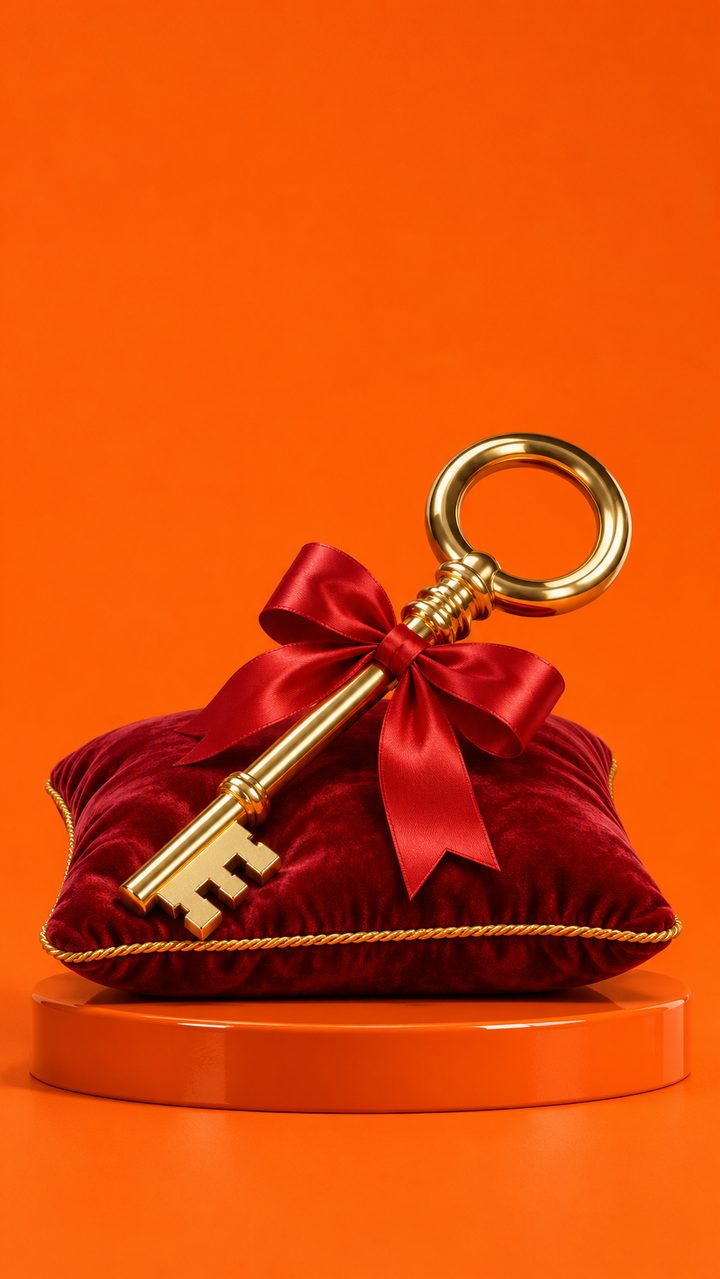
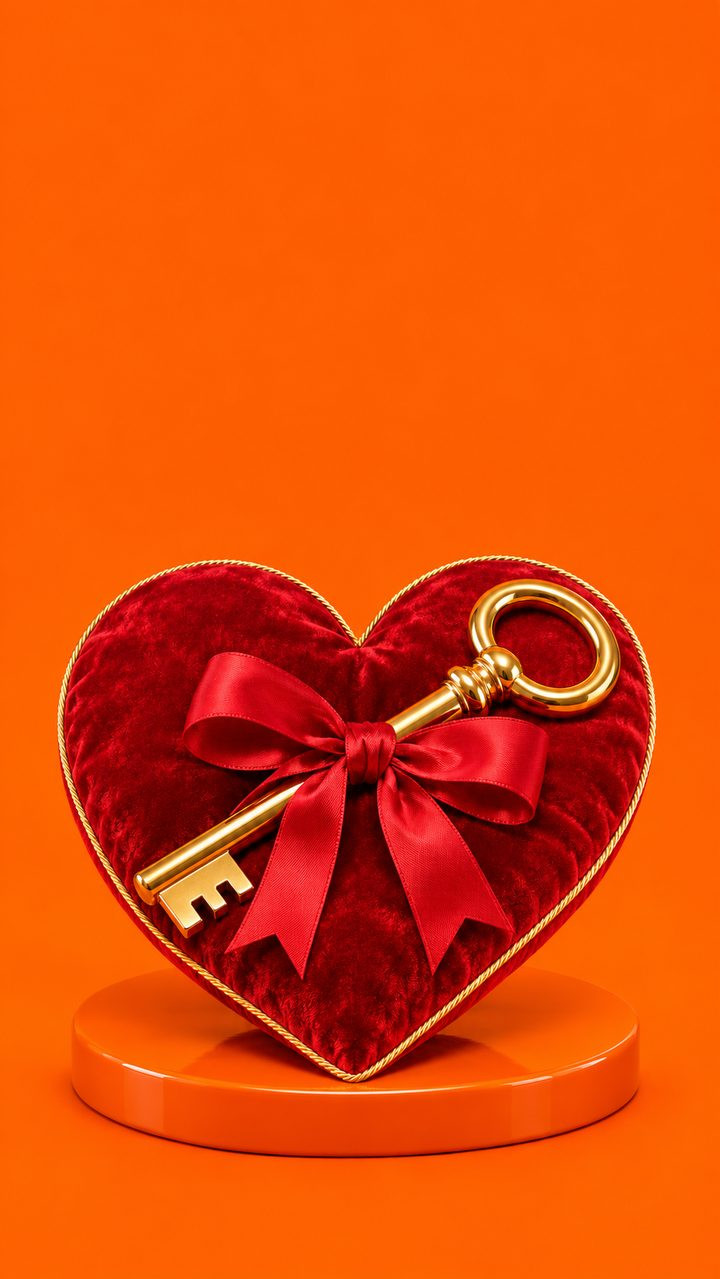
Неоновый город без такси, столик на двоих, мир гигантских вещей, джекпот с золотыми сердцами, ключ на подушке-сердце, семь новых образов

diff --git a/index.html b/index.html
@@ -178,9 +178,9 @@ const CH=[
   ['B1','Барокко','золото, красный бархат, свет как на картинах'],['B2','Рококо','лепнина, банты, цветы, конфетные цвета'],['B3','Ар-деко','чёрный лак, золото, геометрия двадцатых'],['B4','Космические 60-е','белый пластик, круглые окна, оранжевый'],
   ['B5','Диско 70-х','зеркальные шары, светящийся пол, блёстки'],['B6','Двухтысячные','хром, стразы, надувная мебель, раскладушки'],['B7','Старые деньги','мрамор, дерево, теннисный клуб'],['B8','Готический гламур','чёрное кружево, свечи, рубин']]},
  {k:'Мир: шоу',id:'wo',part:0,t:'Где всё происходит?',q:'Яркие миры: праздник, игра и большое шоу. Если ни один не твой, пропусти.',ask:'Что бы ты добавила в этот мир?',max:4,skip:1,cards:[
-  ['W9','Телестудия','колесо удачи, лампочки, в зале голуби вместо зрителей'],['W14','Зал автоматов','везде выпали три сердца, пол в монетах'],['W4','Затопленный театр','бирюзовая вода, лебеди, гора подарков'],['W15','Ресторан с одним столиком','столы стоят даже на потолке'],
-  ['W16','Река такси','ночной неон, одно такси парит'],['W17','Комната телефонов','сотни трубок звонят, ты не отвечаешь'],['W5','Карусель в облаках','закат, живые белые лошади'],['W7','Автомат с призами','ты внутри, сверху спускается клешня'],
-  ['W11','Пустыня гигантских вещей','помада, туфля и трубка размером с дом'],['W6','Сад гигантских цветов','попугаи, люстра прямо на ветке'],['W13','Бассейн с шарами','вилла, полдень, торты и надувные круги'],['W1','Хранилище','бриллианты и жемчуг лежат дюнами']]},
+  ['W9','Телестудия','колесо удачи, лампочки, в зале голуби вместо зрителей'],['W14','Зал автоматов','везде выпали три сердца, пол в монетах'],['W4','Затопленный театр','бирюзовая вода, лебеди, гора подарков'],['W15','Столик на двоих','один столик посреди воды, люстра висит с неба'],
+  ['W16','Неоновый город','ночной проспект, по нему плывут розовые облака'],['W17','Комната телефонов','сотни трубок звонят, ты не отвечаешь'],['W5','Карусель в облаках','закат, живые белые лошади'],['W7','Автомат с призами','ты внутри, сверху спускается клешня'],
+  ['W11','Мир гигантских вещей','помада, туфля и трубка высотой с небоскрёб'],['W6','Сад гигантских цветов','попугаи, люстра прямо на ветке'],['W13','Бассейн с шарами','вилла, полдень, торты и надувные круги'],['W1','Хранилище','бриллианты и жемчуг лежат дюнами']]},
  {k:'Мир: сон',id:'dr',part:0,t:'А если это сон?',q:'Тихие миры, где всё настоящее, кроме одной вещи. Если сон не твоё, пропусти.',ask:'Какой сон тебе ближе? Можно своими словами.',max:3,skip:1,cards:[
   ['Z1','Пустой бассейн','плитка, свет сверху, плывёт жемчужина'],['Z2','Дверь в облака','пустая комната, за дверью небо'],['W12','Подводный бал','медузы вместо люстр, стаи рыб'],['Z6','Карпы в коридоре','отель, рыбы плывут по воздуху'],
   ['Z3','Розовая архитектура','лестницы, жёсткое солнце, длинные тени'],['Z4','Сцена в поле','занавес и рампа, зрителей нет'],['Z5','Лошадь в гостиной','пастельная комната, белая лошадь с бантом'],['Z7','Павлины и люстра','бальный зал, люстра лежит на полу и горит'],
@@ -198,7 +198,9 @@ const CH=[
   ['D5','Прожектор','один луч в темноте'],['D6','Зеркальный шар','сотни бликов по всему залу'],['D7','Контровой','сияющий контур, блик в объектив']]},
  {k:'Образ',id:'lo',part:2,t:'Во что ты одета?',q:'Образы новые. Лица нет нарочно: выбираем только наряд.',ask:'Свой образ: напиши, что хочешь надеть.',max:4,cards:[
   ['F1','Платье-облако','слои тюля и огромный бант'],['F2','Алый лак','виниловый тренч и лаковые сапоги'],['F3','Кристальная сетка','мини, всё в бликах'],['F4','Белый смокинг','оверсайз, широкие брюки'],['F5','Перья','мини из перьев и длинные перчатки'],
-  ['F6','Кожа и стразы','куртка, мини, грубые ботинки'],['F7','Велюр 2000-х','спортивный костюм со стразами'],['F8','Королева конкурса','атлас в пол, лента и корона'],['F9','Серебряный комбинезон','зеркальный, космический']]},
+  ['F6','Кожа и стразы','куртка, мини, грубые ботинки'],['F7','Велюр 2000-х','спортивный костюм со стразами'],['F8','Королева конкурса','атлас в пол, лента и корона'],['F9','Серебряный комбинезон','зеркальный, космический'],
+  ['F10','Красное в пол','атлас, высокий разрез, перчатки'],['F11','Крупье','жилет, бабочка, веер карт'],['F12','Розовая шуба','чёрный топ, широкие брюки, серебряные сапоги'],['F13','Маленькое чёрное','перчатки, жемчуг, лодочки'],
+  ['F14','Платье из монет','золотое мини, блестит как джекпот'],['F15','Улица','бомбер, широкие джинсы, кроссовки'],['F16','Платье-бант','ты сама подарок']]},
  {k:'Волосы',id:'ha',part:2,t:'Какие волосы?',q:'Со спины, чтобы выбирать только причёску.',ask:'Своя причёска или цвет?',max:2,cards:[
   ['V1','Длинные тёмные','прямые, зеркальный глянец'],['V2','Медные локоны','голливудская волна'],['V3','Платиновое каре',''],
   ['V4','Розовые волны',''],['V5','Мокрые назад','гладко зачёсаны'],['V6','Хвост с бантом','высокий, атласный бант']]},
@@ -210,7 +212,7 @@ const CH=[
   ['J1','Дождь','ловишь бриллианты ладонями'],['J2','Ванна','лежишь в жемчуге, в платье и перчатках'],['J3','Ужин','колье на вилке, рубин в бокале'],['J4','Кольца','на каждом пальце по три'],
   ['J5','Улыбка','брекеты с бриллиантами крупным планом'],['J6','Вуаль','лицо закрыто кристаллами'],['J7','Качели','сидишь на огромном кольце'],['J9','Слёзы','бриллианты катятся по щеке'],['J10','Кольцо-леденец','огромный розовый камень у губ']]},
  {k:'Суперприз',id:'pr',part:3,t:'Что такое суперприз?',q:'Главный образ ролика. Можно выбрать картинку или написать своё.',ask:'Свой вариант: что для тебя суперприз?',max:2,free:1,cards:[
-  ['P6','Ты сама','главный приз — это ты: стоишь в подарочной коробке с бантом'],['P4','Сердце','лаковое, в камнях'],['P10','Игровой автомат','три сердца на барабане'],['P1','Бриллиант','огромный камень на постаменте'],
+  ['P6','Ты сама','главный приз — это ты: стоишь в подарочной коробке с бантом'],['P4','Сердце','лаковое, в камнях'],['P10','Джекпот','из автомата летят золотые сердца'],['P1','Бриллиант','огромный камень на постаменте'],
   ['P8','Золотая пластинка',''],['P7','Микрофон','весь в камнях'],['P9','Золотой ключ','с бантом, на подушке-сердце']]},
  {k:'Живое',id:'fa',part:3,t:'Кто ещё в кадре?',q:'Животное рядом с тобой или никого.',ask:'Своё животное?',max:2,cards:[
   ['H1','Белые голуби','взлетают вокруг'],['H2','Пантера','чёрная, в бриллиантовом ошейнике'],['H3','Белая лошадь','с розовой гривой'],['H4','Бабочки','вылетают из коробки'],
